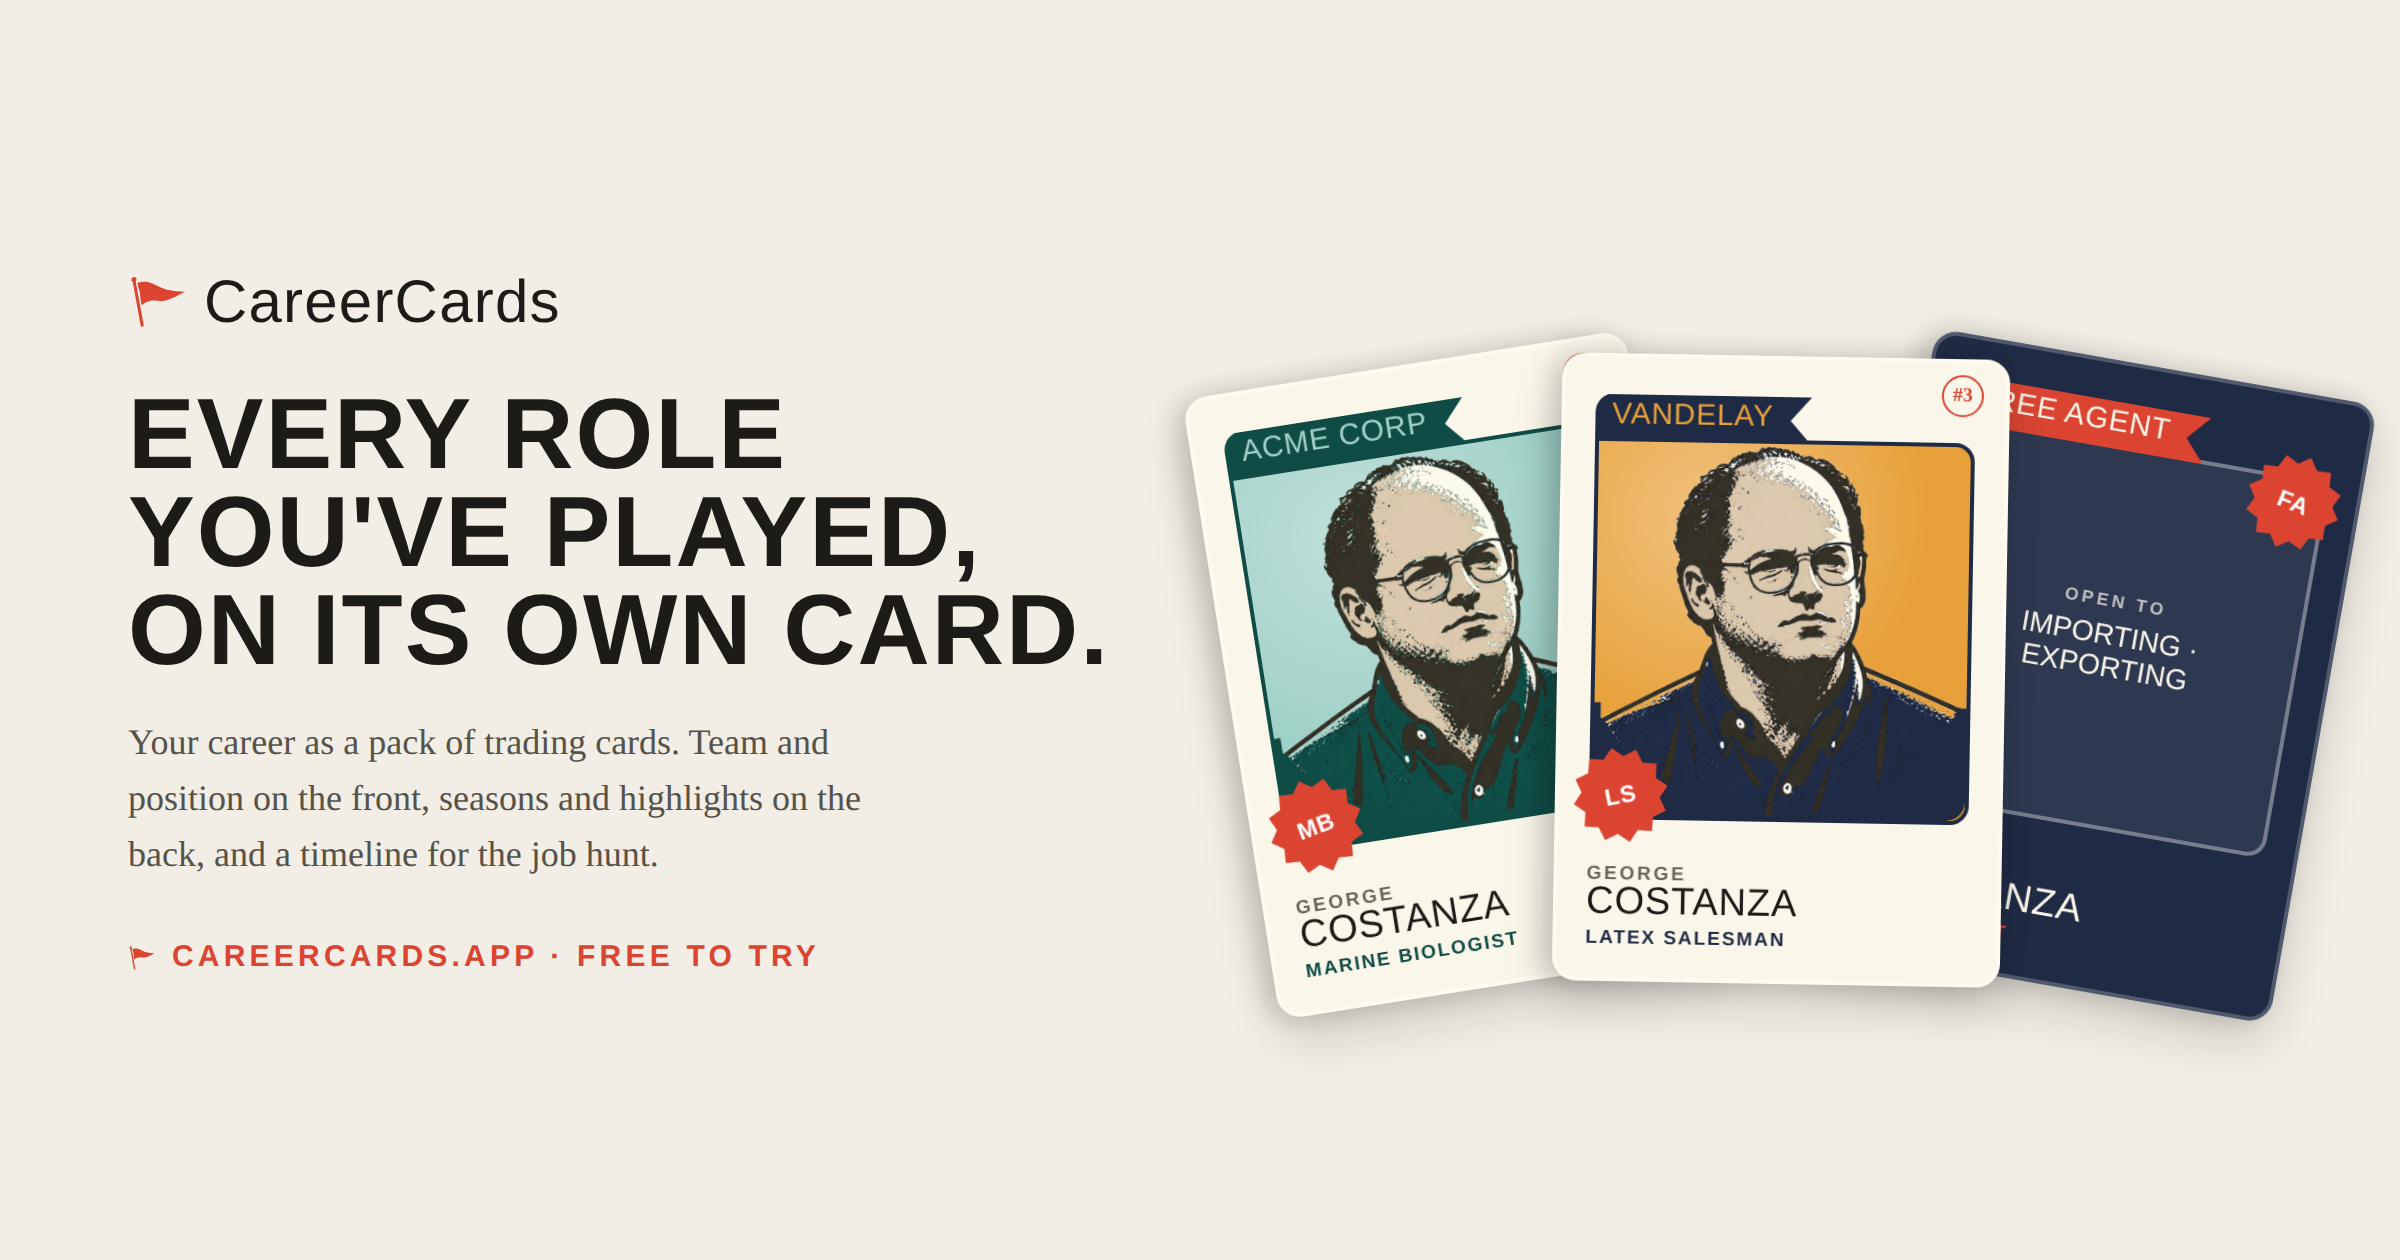
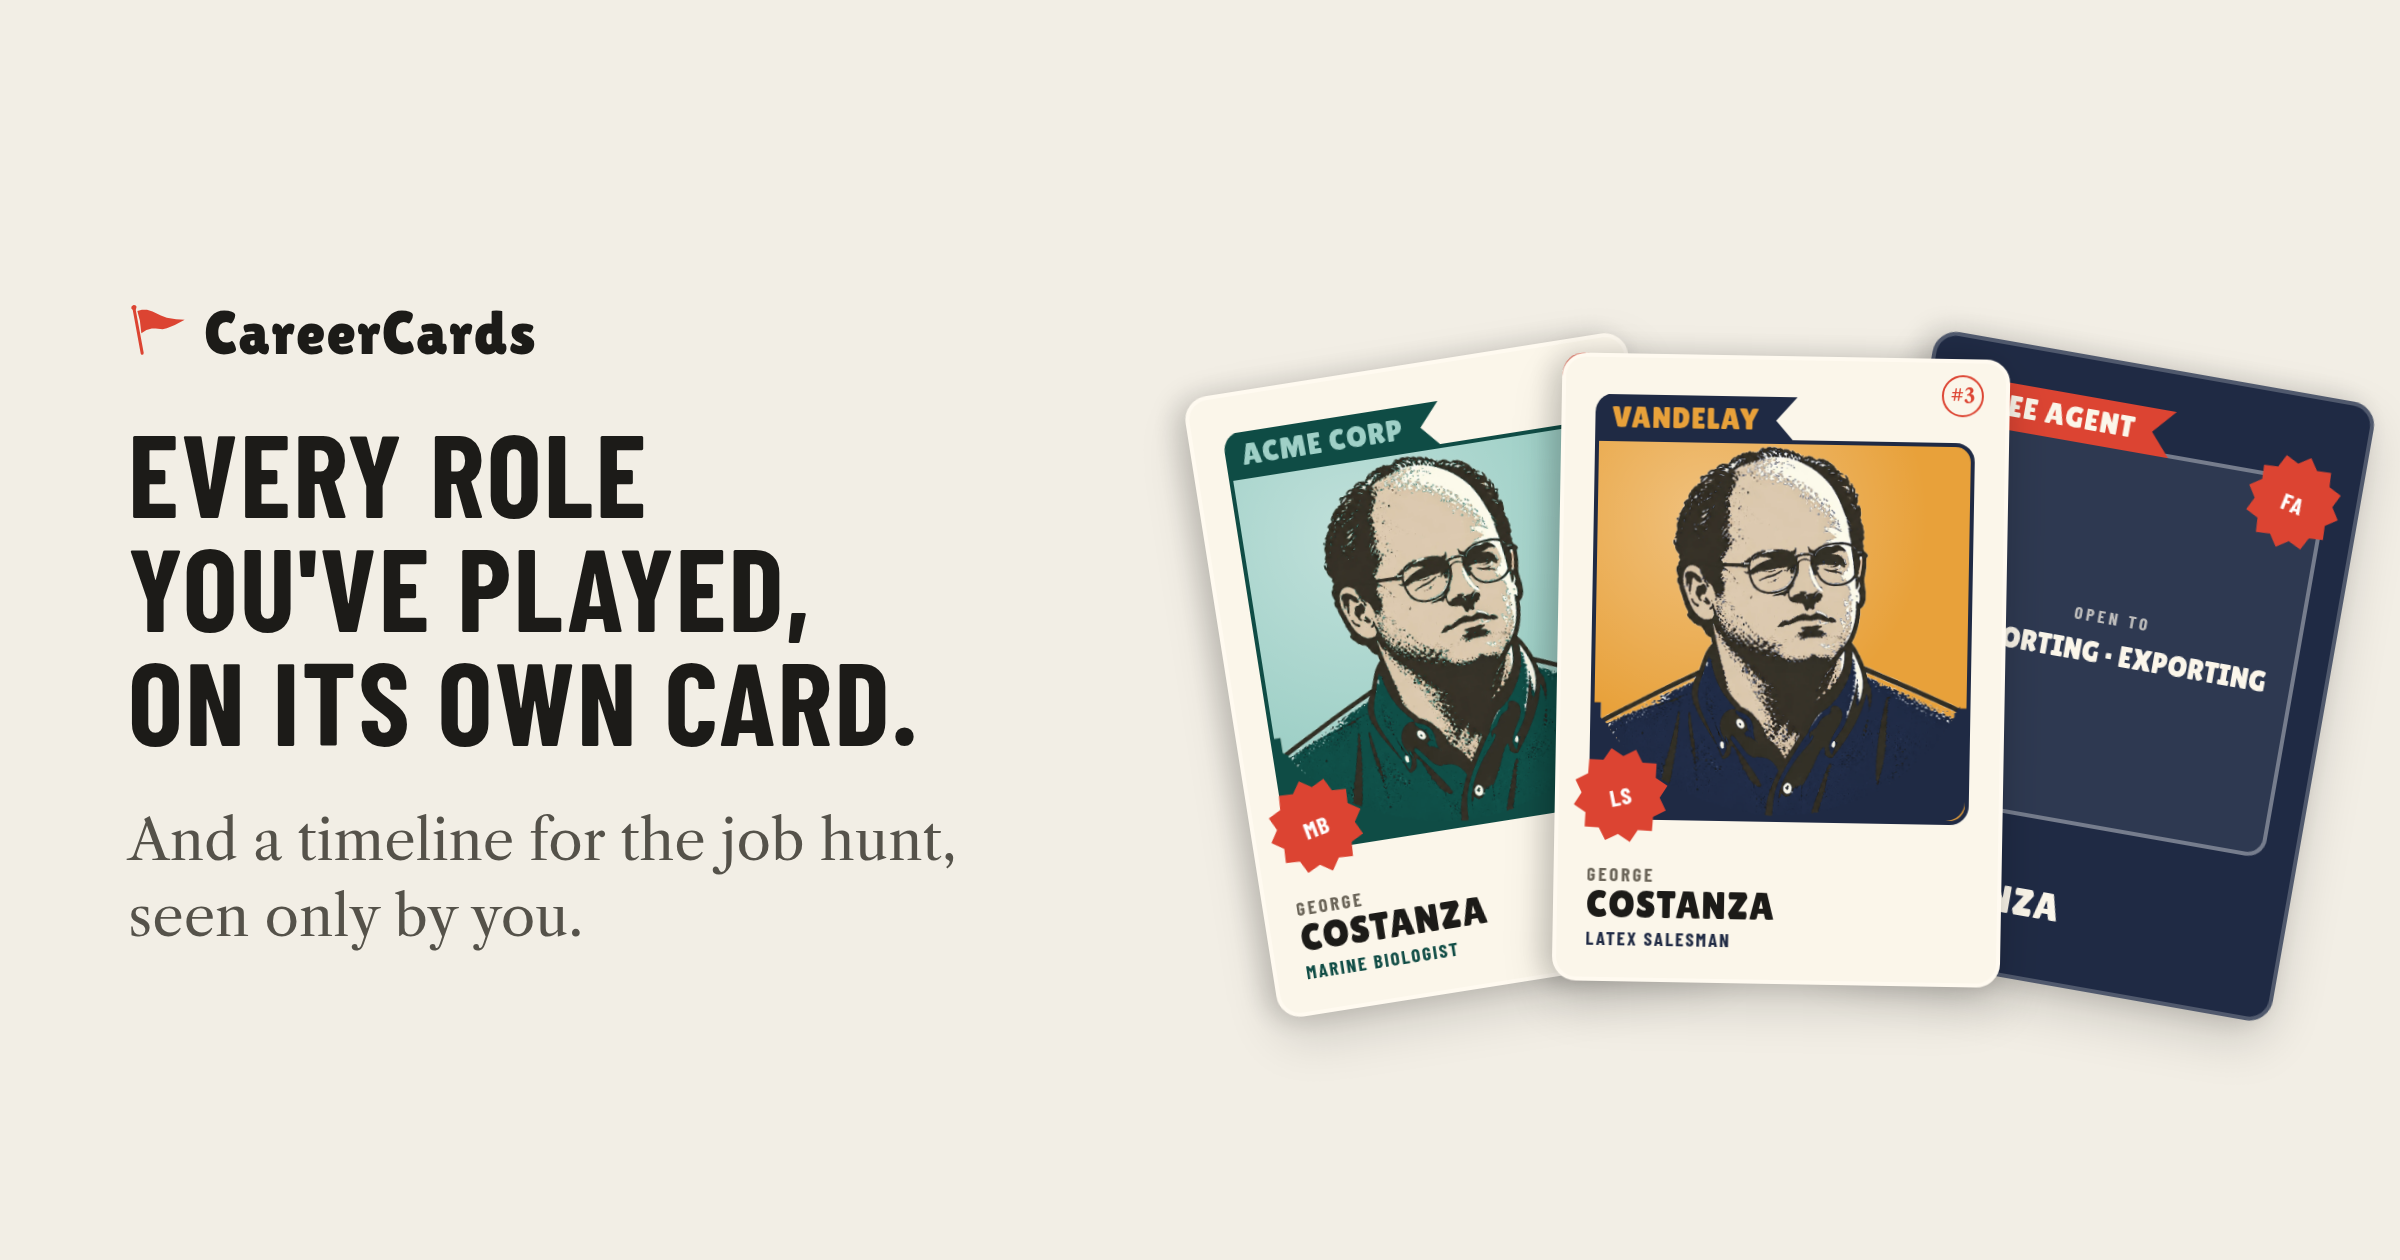
Share card: the site's own type, and a shorter message
The screenshot had fallback fonts because the font stylesheet failed
to load; the picture is retaken with the faces verified. The copy is
the headline and one line about the job-hunt timeline; the paragraph
and the url line are gone.

Claude-Session: https://claude.ai/code/session_01Gm8UBWtQbn8uv3sSjieU6q

diff --git a/web/src/app/globals.css b/web/src/app/globals.css
@@ -459,9 +459,8 @@ kbd{font-family:var(--mono);font-size:11px;border:1px solid var(--hair);border-r
 /* the share card: a 1200 x 630 still of the hero, screenshotted into public/og.png */
 .landing.share{--hw:224px;width:1200px;height:630px;max-width:none;margin:0;padding:0 64px;display:grid;grid-template-columns:minmax(0,1fr) max-content;gap:36px;align-items:center;background:var(--bg);overflow:hidden}
 .landing.share .wordmark{font-size:30px;margin-bottom:26px}
-.landing.share h1{font:700 50px/.98 var(--cond);letter-spacing:.02em;text-transform:uppercase;margin-bottom:18px}
-.landing.share p{font:400 18px/1.55 var(--serif);color:var(--ink-2);max-width:44ch}
-.landing.share .url{display:inline-flex;align-items:center;gap:8px;margin-top:28px;font:700 15px var(--cond);letter-spacing:.14em;text-transform:uppercase;color:var(--red)}
+.landing.share h1{font:700 58px/.98 var(--cond);letter-spacing:.02em;text-transform:uppercase;margin-bottom:18px}
+.landing.share p{font:400 28px/1.35 var(--serif);color:var(--ink-2);max-width:24ch;margin-top:24px}
 .landing.share .hand{margin-right:8px}
 .landing.share .hand .card{transition:none;cursor:default}
 

diff --git a/web/src/app/share-card/page.tsx b/web/src/app/share-card/page.tsx
@@ -14,8 +14,7 @@ export default function ShareCard() {
       <div className="copy">
         <span className="wordmark"><Flag size={30} /><span>CareerCards</span></span>
         <h1>Every role you&apos;ve played, on its own card.</h1>
-        <p>Your career as a pack of trading cards. Team and position on the front, seasons and highlights on the back, and a timeline for the job hunt.</p>
-        <div className="url"><Flag size={14} />careercards.app · free to try</div>
+        <p>And a timeline for the job hunt, seen only by you.</p>
       </div>
       <div className="hand">
         {hand.map((r, i) => <RoleCard key={r.id} S={S} r={r} idx={S.roles.indexOf(r)} total={S.roles.length} className={'h' + i} />)}

diff --git a/web/README.md b/web/README.md
@@ -133,6 +133,8 @@ Links to the site unfurl with `public/og.png` (Open Graph and Twitter tags in `s
 ```
 npx next build && npx next start -p 3111
 # in another shell, with Playwright's Chromium
-node -e "import('playwright').then(async ({chromium})=>{const b=await chromium.launch();const p=await (await b.newContext({viewport:{width:1200,height:630},deviceScaleFactor:2})).newPage();await p.goto('http://127.0.0.1:3111/share-card');await p.evaluate(()=>document.fonts.ready);await p.waitForTimeout(600);await p.screenshot({path:'public/og.png'});await b.close();})"
+node -e "import('playwright').then(async ({chromium})=>{const b=await chromium.launch();const p=await (await b.newContext({viewport:{width:1200,height:630},deviceScaleFactor:2})).newPage();await p.goto('http://127.0.0.1:3111/share-card',{waitUntil:'networkidle'});const f=await p.evaluate(async()=>{await document.fonts.ready;return [...document.fonts].filter(x=>x.status==='loaded').map(x=>x.family)});console.log(f);await p.screenshot({path:'public/og.png'});await b.close();})"
 ```
+
+The printed list must include Lilita One, Barlow Condensed and Libre Caslon Text; if a font request failed, the picture has fallback type. Rerun until it does.
 
